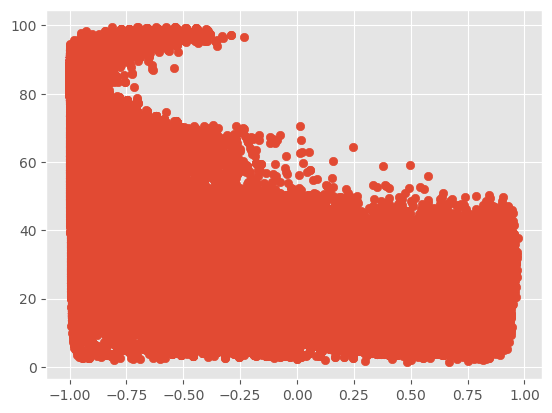
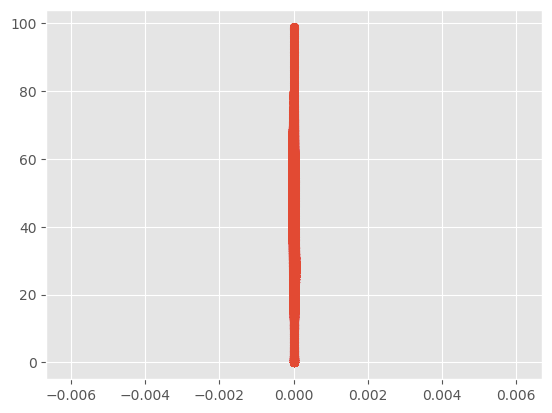
added all

diff --git a/templates/index.html b/templates/index.html
@@ -19,13 +19,18 @@
             {% csrf_token %}
             <input type = "file" name='img' id="real-file" hidden='hidden'>
             <center>
-                <button type="button" id="custom-button" onclick="uploadImg()">Select Image</button>
+                <button type="button" id="custom-button" onclick="uploadImg()">Select Image</button
+            </center>
+            <center>
+                <input type="file" name='nir' id='real-file_nir' hidden='hidden'>
+                <button type="button" id="custom-button" onclick="uploadnir()">Select nir Image</button>
             </center>
             <center>
             <select id='algorithm' name="algorithm">
                 <option value="0">Select Algorithm</option>
                 <option value="vari">vari</option>
-                <option value="ndvi">ndvi</option>
+                <option value="fndvi">false ndvi</option>
+                <option value='rndvi'>real ndvi</option>
             </select>
             </center>
             <center>

diff --git a/static/js/main.js b/static/js/main.js
@@ -2,8 +2,13 @@ function uploadImg(){
     const realFile = document.getElementById("real-file");
     realFile.click();
 }
+function uploadnir(){
+    const realFilenir = document.getElementById("real-file_nir");
+    realFilenir.click();
+}
 function checkForm(){
     var img=document.getElementById('real-file').value;
+    var nir=document.getElementById('real-file_nir').value;
     var alg=document.getElementById('algorithm').value;
     var sp=document.getElementById('errormsg');
     flag = false;

diff --git a/templates/output.html b/templates/output.html
@@ -27,11 +27,11 @@
         </div>
     </div>
     <div class="value">
-        <header class="phead">percentage</header>
+        <header class="phead">Vegetation percentage</header>
         <p>
            dense = {{dense}}%<br>
-           barren = {{barren}}%<br>
            sparse = {{sparse}}%<br>
+           barren = {{barren}}%<br>
         </p>
         <header class="phead">Lightness vs Index</header>
         <div class="graph">

diff --git a/minor/vari.py b/minor/vari.py
@@ -17,7 +17,7 @@ def calcVegIndex(img,extension,photo_path,num=0):
         except:
             image=mpimg.imread('static/img/test.jpeg')
             extension = 'jpeg'
-    if num==1:#calculating ndvi
+    if num==1:
         NIR = image[:, :, 0].astype('float')
         blue = image[:, :, 2].astype('float')
         green = image[:, :, 1].astype('float')
@@ -26,7 +26,7 @@ def calcVegIndex(img,extension,photo_path,num=0):
         VIS = (blue + green) ** 2 / bottom
         bot=NIR + VIS
         bot[bot==0]=0.0001
-        NDVI = (NIR - VIS) / (bot)
+        NDVI = (NIR - VIS) / (bot + 500) 
         cmap = matplotlib.colors.LinearSegmentedColormap.from_list("", [ 'red','orange', 'yellow', 'green'])
         fig, ax = plt.subplots()
         ax.imshow(NDVI,cmap=cmap)
@@ -67,7 +67,53 @@ def calcVegIndex(img,extension,photo_path,num=0):
         sparse=round((sparse/total)*100,3)
         barren=round((barren/total)*100,3)
         return dense,sparse,barren
+    elif num==2:
+            image = plt.imread(photo_path + 'test.' + extension)
+            image_nir = mpimg.imread(photo_path+'nir.'+extension)
+            NIR = image_nir
+            red=image[:,:,0].astype('float')
+            NDVI=(NIR-red)/(NIR+red)
+            cmap = matplotlib.colors.LinearSegmentedColormap.from_list("", [ 'red','orange', 'yellow', 'green'])
+            fig, ax = plt.subplots()
+            ax.imshow(NDVI,cmap=cmap)
+            plt.axis('off') 
+            fig.savefig(photo_path+'result.'+extension, bbox_inches='tight')
+            plt.clf()
+            rgb_to_lab = skimage.color.rgb2lab(image, illuminant='D65', observer='2')
 
+            lightness = rgb_to_lab[:, :, 0]
+
+            L_List = []
+            for list in lightness:
+                for sublist in list:
+                    L_List.append(sublist)
+
+            N_List = []
+            for list in NDVI:
+                for sublist in list:
+                    N_List.append(sublist)
+            x=N_List
+            y=L_List
+            np.corrcoef(x,y)
+            plt.scatter(x,y)
+            fig.savefig(photo_path+'plot.png', bbox_inches='tight')
+            dense = 0
+            sparse = 0
+            barren = 0
+            for list in NDVI:
+                for sublist in list:
+                    if (sublist>= 0.6):
+                        dense += 1
+                    elif (sublist<0.6 and sublist>=0.2):
+                        sparse += 1
+                    elif (sublist< 0.2):
+                        barren += 1
+            total=dense+sparse+barren
+            dense=round((dense/total)*100,3)
+            sparse=round((sparse/total)*100,3)
+            barren=round((barren/total)*100,3)
+            return dense,sparse,barren
+        
     else:#calculating vari
         red = image[:, :, 0].astype('float')
         blue = image[:, :, 2].astype('float')
@@ -113,3 +159,4 @@ def calcVegIndex(img,extension,photo_path,num=0):
         sparse=round((sparse/total)*100,3)
         barren=round((barren/total)*100,3)
         return dense,sparse,barren
+     

diff --git a/minor/views.py b/minor/views.py
@@ -27,12 +27,25 @@ def upload(request):
             os.remove(photo_path+'test.jpeg')
         fs = FileSystemStorage()
         fs.save(photo_path+'test.'+ extension, myfile)
-    #main code
+    if request.method == 'POST' and request.FILES['nir']:
+        myfilenir = request.FILES['nir']
+        extension = myfilenir.name.split('.')[1]
+        photo_path = 'static/img/' 
+        if os.path.exists(photo_path + 'nir.png'):
+            os.remove(photo_path + 'nir.png')
+        elif os.path.exists(photo_path + 'nir.jpg'):
+            os.remove(photo_path + 'nir.jpg')
+        elif os.path.exists(photo_path + 'nir.jpeg'):
+            os.remove(photo_path + 'nir.jpeg')
+        fs = FileSystemStorage()
+        fs.save(photo_path + 'nir.' + extension, myfilenir)
     algorithm=request.POST['algorithm']
     if algorithm=='vari':
         dense,sparse,barren=calcVegIndex(photo_path+'test.'+extension,extension,photo_path)
-    else:
+    elif algorithm=='fndvi':
         dense,sparse,barren=calcVegIndex(photo_path+'test.'+extension,extension,photo_path,1)
+    else:
+        dense,sparse,barren=calcVegIndex(photo_path+'test.'+extension,extension,photo_path,2)
       
     inputimg='img/test.'+extension
     outputimg='img/result.'+extension
